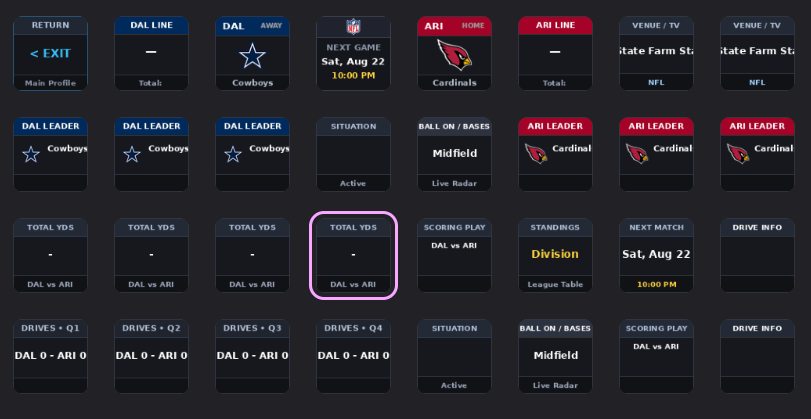
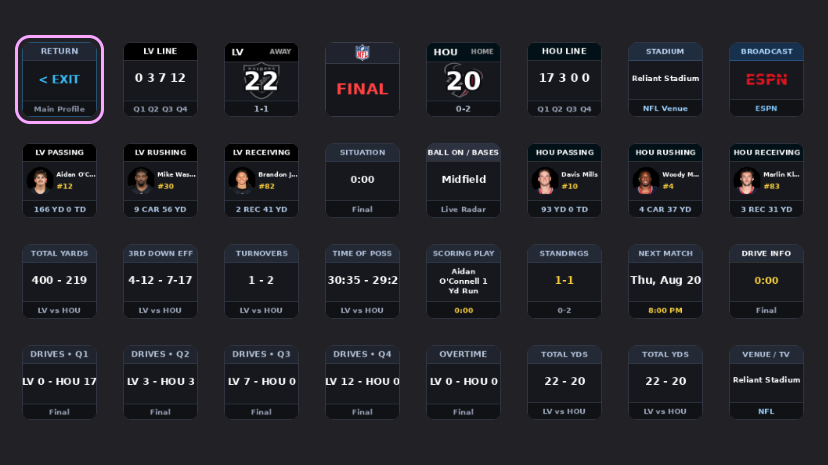
docs: update GameHub XL screenshot and simplify dashboard description

diff --git a/README.md b/README.md
@@ -68,35 +68,11 @@ Tapping the center Game Hub key opens a dedicated dashboard page pre-configured 
   <img src="assets/gamehub_xl.png" alt="DeckSports Stream Deck XL Dashboard" width="90%">
 </p>
 
-* **Row 1 (Header & Scoreboard)**:
-  * Key 1: `< EXIT` (Return to Main Profile)
-  * Key 2: Away Full Line Score (Quarter-by-quarter breakdown)
-  * Key 3: Away Team Score & Primary Logo
-  * Key 4: Master Clock & Game Status Center Hub
-  * Key 5: Home Team Score & Primary Logo
-  * Key 6: Home Full Line Score (Quarter-by-quarter breakdown)
-  * Key 7: Stadium Venue & Live Weather
-  * Key 8: Official TV Broadcast Network Logo
-* **Row 2 (Player Leaders & Live Play Radar)**:
-  * Keys 1–3: Away Category Leaders (Passing / Points, Rushing / Rebounds, Receiving / Assists)
-  * Key 4: Down and Distance / Count and Outs Radar
-  * Key 5: Ball Spot / Red Zone / Base Runners Radar
-  * Keys 6–8: Home Category Leaders (Passing / Points, Rushing / Rebounds, Receiving / Assists)
-* **Row 3 (Head-to-Head Statistics & Scoring)**:
-  * Key 1: Total Yards / Field Goal % / Hits
-  * Key 2: 3rd Down Efficiency / 3-Point % / Shots on Goal
-  * Key 3: Turnovers / Fouls / Penalty Minutes
-  * Key 4: Time of Possession / Formations
-  * Key 5: Last Scoring Play Summary
-  * Key 6: League Standings & Division Race
-  * Key 7: Next Upcoming Match Schedule
-  * Key 8: Current Drive / Power Play Radar
-* **Row 4 (Quarter Breakdown & Extra Stats)**:
-  * Keys 1–4: Quarter 1, 2, 3, and 4 Period Line Scores
-  * Key 5: Overtime / Extra Period Line Score
-  * Key 6: Field Goals / Rebounds / Extra Stats
-  * Key 7: Penalty Minutes / Free Throw % / Power Play
-  * Key 8: Combined Venue, Weather, and TV Summary
+The 32-key layout organizes the entire match into four dedicated, 100% unique functional rows:
+* **Row 1 (Scoreboard & Matchup Hub)**: Exit navigation, full quarter line scores, home and away team scores with primary branding, centered game clock, stadium venue information, and official TV network broadcast logos.
+* **Row 2 (Player Leaders & Live Situational Radar)**: Category leaders for passing, rushing, and receiving, real-time down and distance, ball spot, red zone alerts, and base runners diamond tracking.
+* **Row 3 (Head-to-Head Team Statistics)**: Real-time comparisons for total yards, 3rd down efficiency, turnovers, time of possession, latest scoring play summary, division standings, next match schedule, and live drive summary.
+* **Row 4 (Quarter Breakdown & Extended Analytics)**: Individual period line scores (Q1–Q4, Overtime), field goals, rebounds, penalty minutes, free throw percentages, and weather summaries.
 
 ---
 
@@ -106,9 +82,10 @@ Tapping the center Game Hub key opens a dedicated dashboard page pre-configured 
   <img src="assets/gamehub_mk2.png" alt="DeckSports Stream Deck MK.2 Dashboard" width="70%">
 </p>
 
-* **Row 1**: Exit Button, Away Score/Logo, Centered Game Clock, Home Score/Logo, Venue / TV Broadcast Information.
-* **Row 2**: Away Primary Leader, Down and Distance, Ball Spot / Red Zone, Drive Information, Home Primary Leader.
-* **Row 3**: Total Yards Comparison, 3rd Down Efficiency, Last Scoring Play, Turnovers, Division Standings.
+The 15-key layout delivers an essential live game overview:
+* **Row 1**: Exit navigation, away and home team scores, centered master clock, and broadcast details.
+* **Row 2**: Primary athlete leaders, live situational down and distance, ball spot, and drive radar.
+* **Row 3**: Total yards comparison, 3rd down efficiency, latest scoring play, turnovers, and standings.
 
 ---
 
